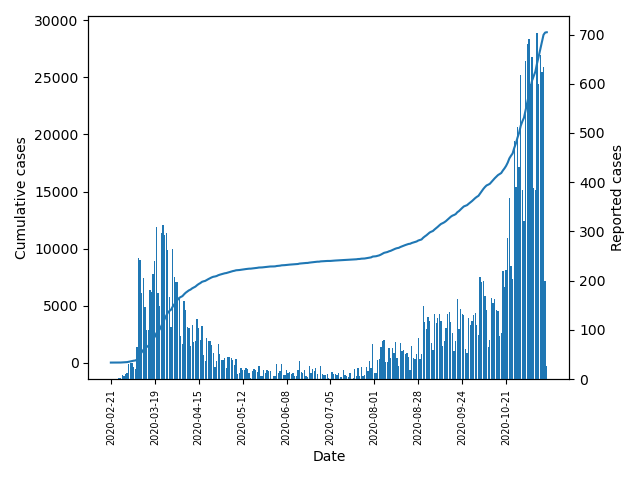
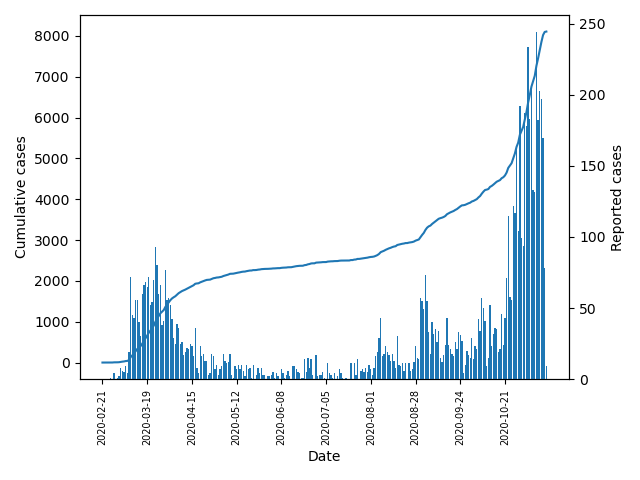
fixed the drop down menu so the picture updates every time you change the value

diff --git a/assignment6/templates/home.html b/assignment6/templates/home.html
@@ -16,9 +16,9 @@
         {% endfor %}
     </select>
 </form>
+<img src="/static/both.png" width="50%" height="45%" />
+<img src="/static/cumulative.png" width="45%" height="45%" />
+<img src="/static/reports.png" width="45%" height="45%" />
 
-    <img src="/static/both.png" width="50%" height="45%" />
-    <img src="/static/cumulative.png" width="45%" height="45%" />
-    <img src="/static/reports.png" width="45%" height="45%" />
 </body>
 </html>

diff --git a/assignment6/web_visualization.py b/assignment6/web_visualization.py
@@ -1,10 +1,19 @@
 import pandas as pd
 import sys
 import matplotlib.pyplot as plt
-from flask import Flask, render_template
+from flask import Flask, render_template, request
 import os
 
 app = Flask(__name__)
+app.config['SEND_FILE_MAX_AGE_DEFAULT'] = 0
+
+@app.after_request
+def add_header(response):
+    response.cache_control.no_store = True
+    response.headers['Cache-Control'] = 'no-store, no-cache, must-revalidate, post-check=0, pre-check=0, max-age=0'
+    response.headers['Pragma'] = 'no-cache'
+    response.headers['Expires'] = '-1'
+    return response
 
 def plot_reported_cases(s):
     reported = s["Nye tilfeller"]
@@ -19,6 +28,7 @@ def plot_reported_cases(s):
     plt.xticks(range(len(date)), date[::round(len(date) / 10)], rotation=90, size=7)
     plt.locator_params(axis='x', nbins=10)
     plt.tight_layout()
+    
     plt.savefig("static/reports.png")
     plt.close()
 
@@ -61,6 +71,19 @@ def plot_both(s):
     fig.tight_layout()
     fig.savefig("static/both.png")
     plt.close()
+
+@app.route("/", methods=["POST"])
+def update():
+    counties = ["AlleFylker.csv", "Agder.csv", "Innlandet.csv", "MoreOgRomsdal.csv", "Nordland.csv", "Oslo.csv", "Rogaland.csv", "TromsOgFinnmark.csv", "Trondelag.csv", "VestfoldOgTelemark.csv", "Vestland.csv", "Viken.csv"]
+    county = request.form.get("county")
+    s = pd.read_csv(county)
+    s.Dato = pd.to_datetime(s.Dato, dayfirst=True)
+    plot_cumulative_cases(s)
+    plot_reported_cases(s)
+    plot_both(s)
+    return render_template('home.html', counties=counties)
+
+    
 
 
 
